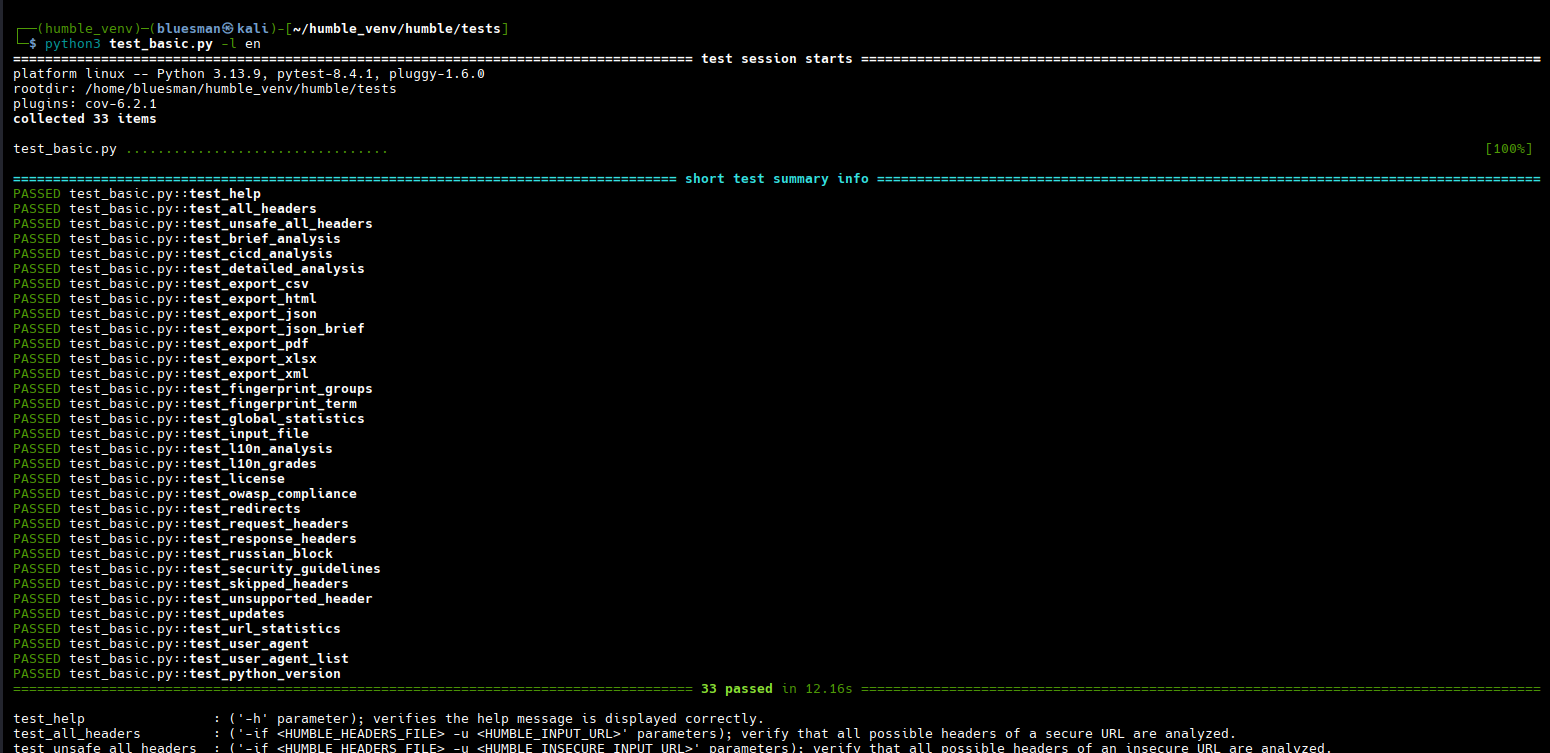
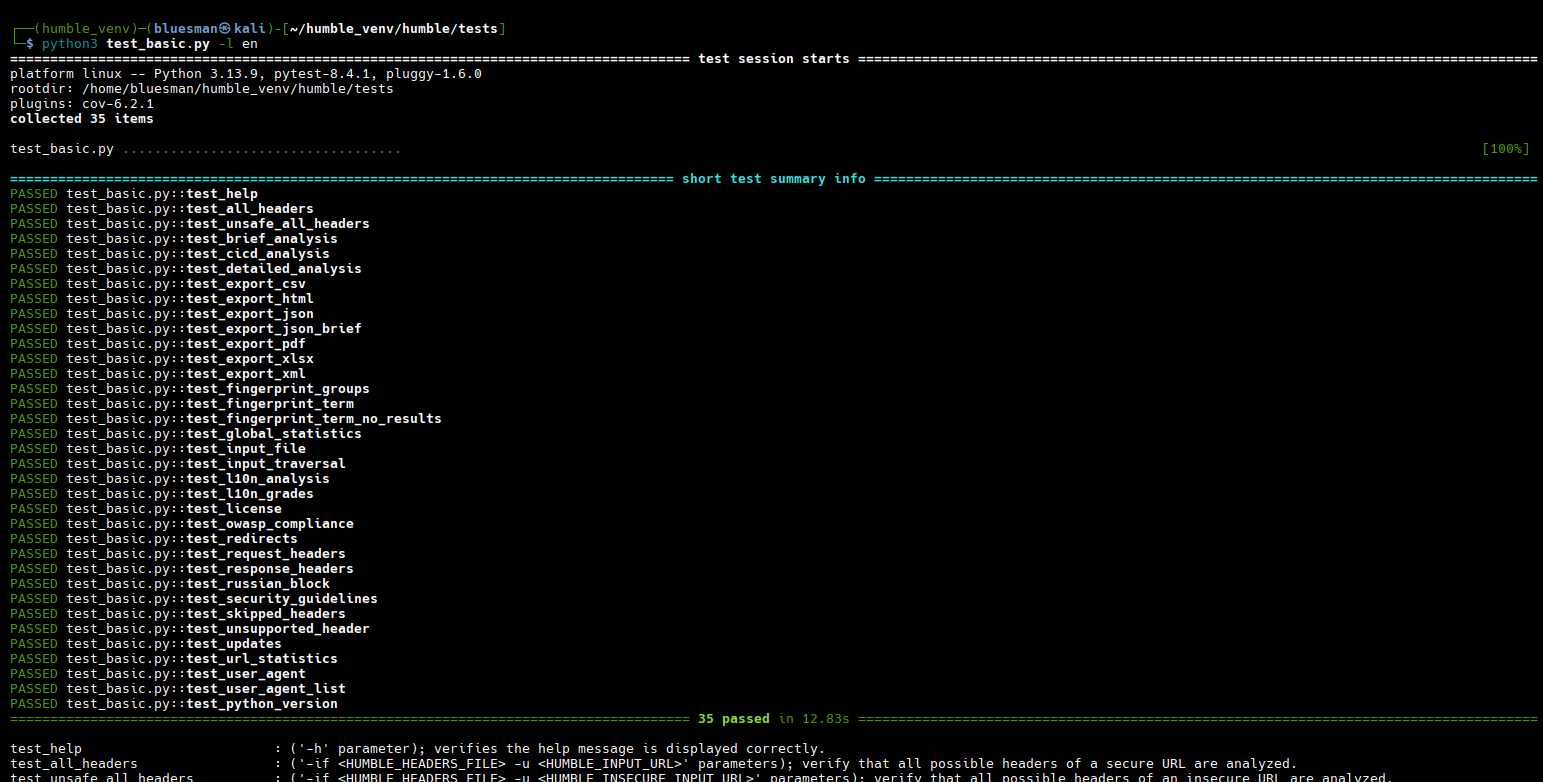
Feature: 2 new unit tests and 88% code coverage

Changed region(s): [[0.0, 0.0305, 0.9955, 1.0]]

diff --git a/tests/test_basic.py b/tests/test_basic.py
@@ -24,6 +24,7 @@ HUMBLE_HEADERS_FILE = path.abspath(path.join(HUMBLE_TESTS_DIR,
 HUMBLE_INPUT_DIR = path.join(HUMBLE_PROJECT_ROOT, 'samples')
 HUMBLE_INPUT_FILE = path.abspath(path.join(HUMBLE_INPUT_DIR,
                                            'github_input_file.txt'))
+HUMBLE_INPUT_TRAVERSAL = '../../../humbleinputtraversal/'
 HUMBLE_INPUT_URL = 'https://github.com'
 HUMBLE_INSECURE_INPUT_URL = 'http://github.com'
 HUMBLE_L10N_DIR = path.join(HUMBLE_PROJECT_ROOT, 'l10n')
@@ -53,9 +54,12 @@ TEST_CFGS = {
     'test_export_xml': (['-u', TEST_URL, '-o', 'xml'], 'XML saved'),
     'test_fingerprint_groups': (['-f'], 'Top 20 groups'),
     'test_fingerprint_term': (['-f', 'Google'], 'Headers related to'),
+    'test_fingerprint_term_no_results': (['-f', 'TestingHumble'], 'quote'),
     'test_global_statistics': (['-a'], 'Empty headers'),
     'test_input_file': (['-if', HUMBLE_INPUT_FILE, '-u', HUMBLE_INPUT_URL],
                         'Input:'),
+    'test_input_traversal': (['-u', TEST_URL, '-op', HUMBLE_INPUT_TRAVERSAL],
+                             'wrong:'),
     'test_l10n_analysis': (['-u', TEST_URL, '-l', 'es'],
                            'Advertencias a revisar'),
     'test_l10n_grades': (['-grd', '-l', 'es'], 'No te obsesiones'),
@@ -69,7 +73,7 @@ TEST_CFGS = {
         'Analysis Grade:'
     ),
     'test_response_headers': (['-u', TEST_URL, '-r'], 'HTTP Response Headers'),
-    'test_russian_block': (['-u', TEST_RUSSIAN_URL, ], 'withdraws'),
+    'test_russian_block': (['-u', TEST_RUSSIAN_URL], 'withdraws'),
     'test_security_guidelines': (['-g'], 'headers-in-wordpress'),
     'test_skipped_headers': (['-u', TEST_URL, '-s', 'ETAG', 'NEL'],
                              'expressly excluded'),
@@ -89,10 +93,11 @@ TEST_SUMMS = ('[test_help]', '[test_all_headers]', '[test_unsafe_all_headers]',
               '[test_export_json_brief]', '[test_export_pdf]',
               '[test_export_xlsx]', '[test_export_xml]',
               '[test_fingerprint_groups]', '[test_fingerprint_term]',
-              '[test_global_statistics]', '[test_input_file]',
+              '[test_fingerprint_term_no_results]', '[test_global_statistics]',
+              '[test_input_file]', '[test_input_traversal]',
               '[test_l10n_analysis]', '[test_l10n_grades]', '[test_license]',
               '[test_owasp_compliance]', '[test_redirects]',
-              '[test_requests_headers]', '[test_response_headers]',
+              '[test_request_headers]', '[test_response_headers]',
               '[test_russian_block]', '[test_security_guidelines]',
               '[test_skipped_headers]', '[test_unsupported_header]',
               '[test_updates]', '[test_url_statistics]', '[test_user_agent]',

diff --git a/README.md b/README.md
@@ -23,7 +23,7 @@
 <a target="_blank" href="https://github.com/rfc-st/humble/actions/workflows/bandit-security-scan.yml" title="Results of the last analysis of this tool with bandit, for critical or high vulnerabilities"><img src="https://github.com/rfc-st/humble/actions/workflows/bandit-security-scan.yml/badge.svg"></a>
 <a target="_blank" href="https://github.com/rfc-st/humble/actions/workflows/codeql-analysis.yml?query=workflow%3ACodeQL" title="CodeQL security analysis passed"><img src="https://github.com/rfc-st/humble/workflows/CodeQL/badge.svg"></a>
 <a target="_blank" href="https://humble.readthedocs.io/en/latest/" title="humble documentation status"><img src="https://img.shields.io/badge/documentation-passing-32bd50?labelColor=343b41"></a>
-<a target="_blank" href="https://github.com/rfc-st/humble/?tab=readme-ov-file#unit-tests" title="humble code coverage"><img src="https://img.shields.io/badge/code%20coverage-87%25-f9d71c?labelColor=343b41"></a>
+<a target="_blank" href="https://github.com/rfc-st/humble/?tab=readme-ov-file#unit-tests" title="humble code coverage"><img src="https://img.shields.io/badge/code%20coverage-88%25-f9d71c?labelColor=343b41"></a>
 <a target="_blank" href="https://www.bestpractices.dev/projects/9543" title="OpenSSF best practices analysis"><img src="https://www.bestpractices.dev/projects/9543/badge"></a>
 <br />
 <br />
